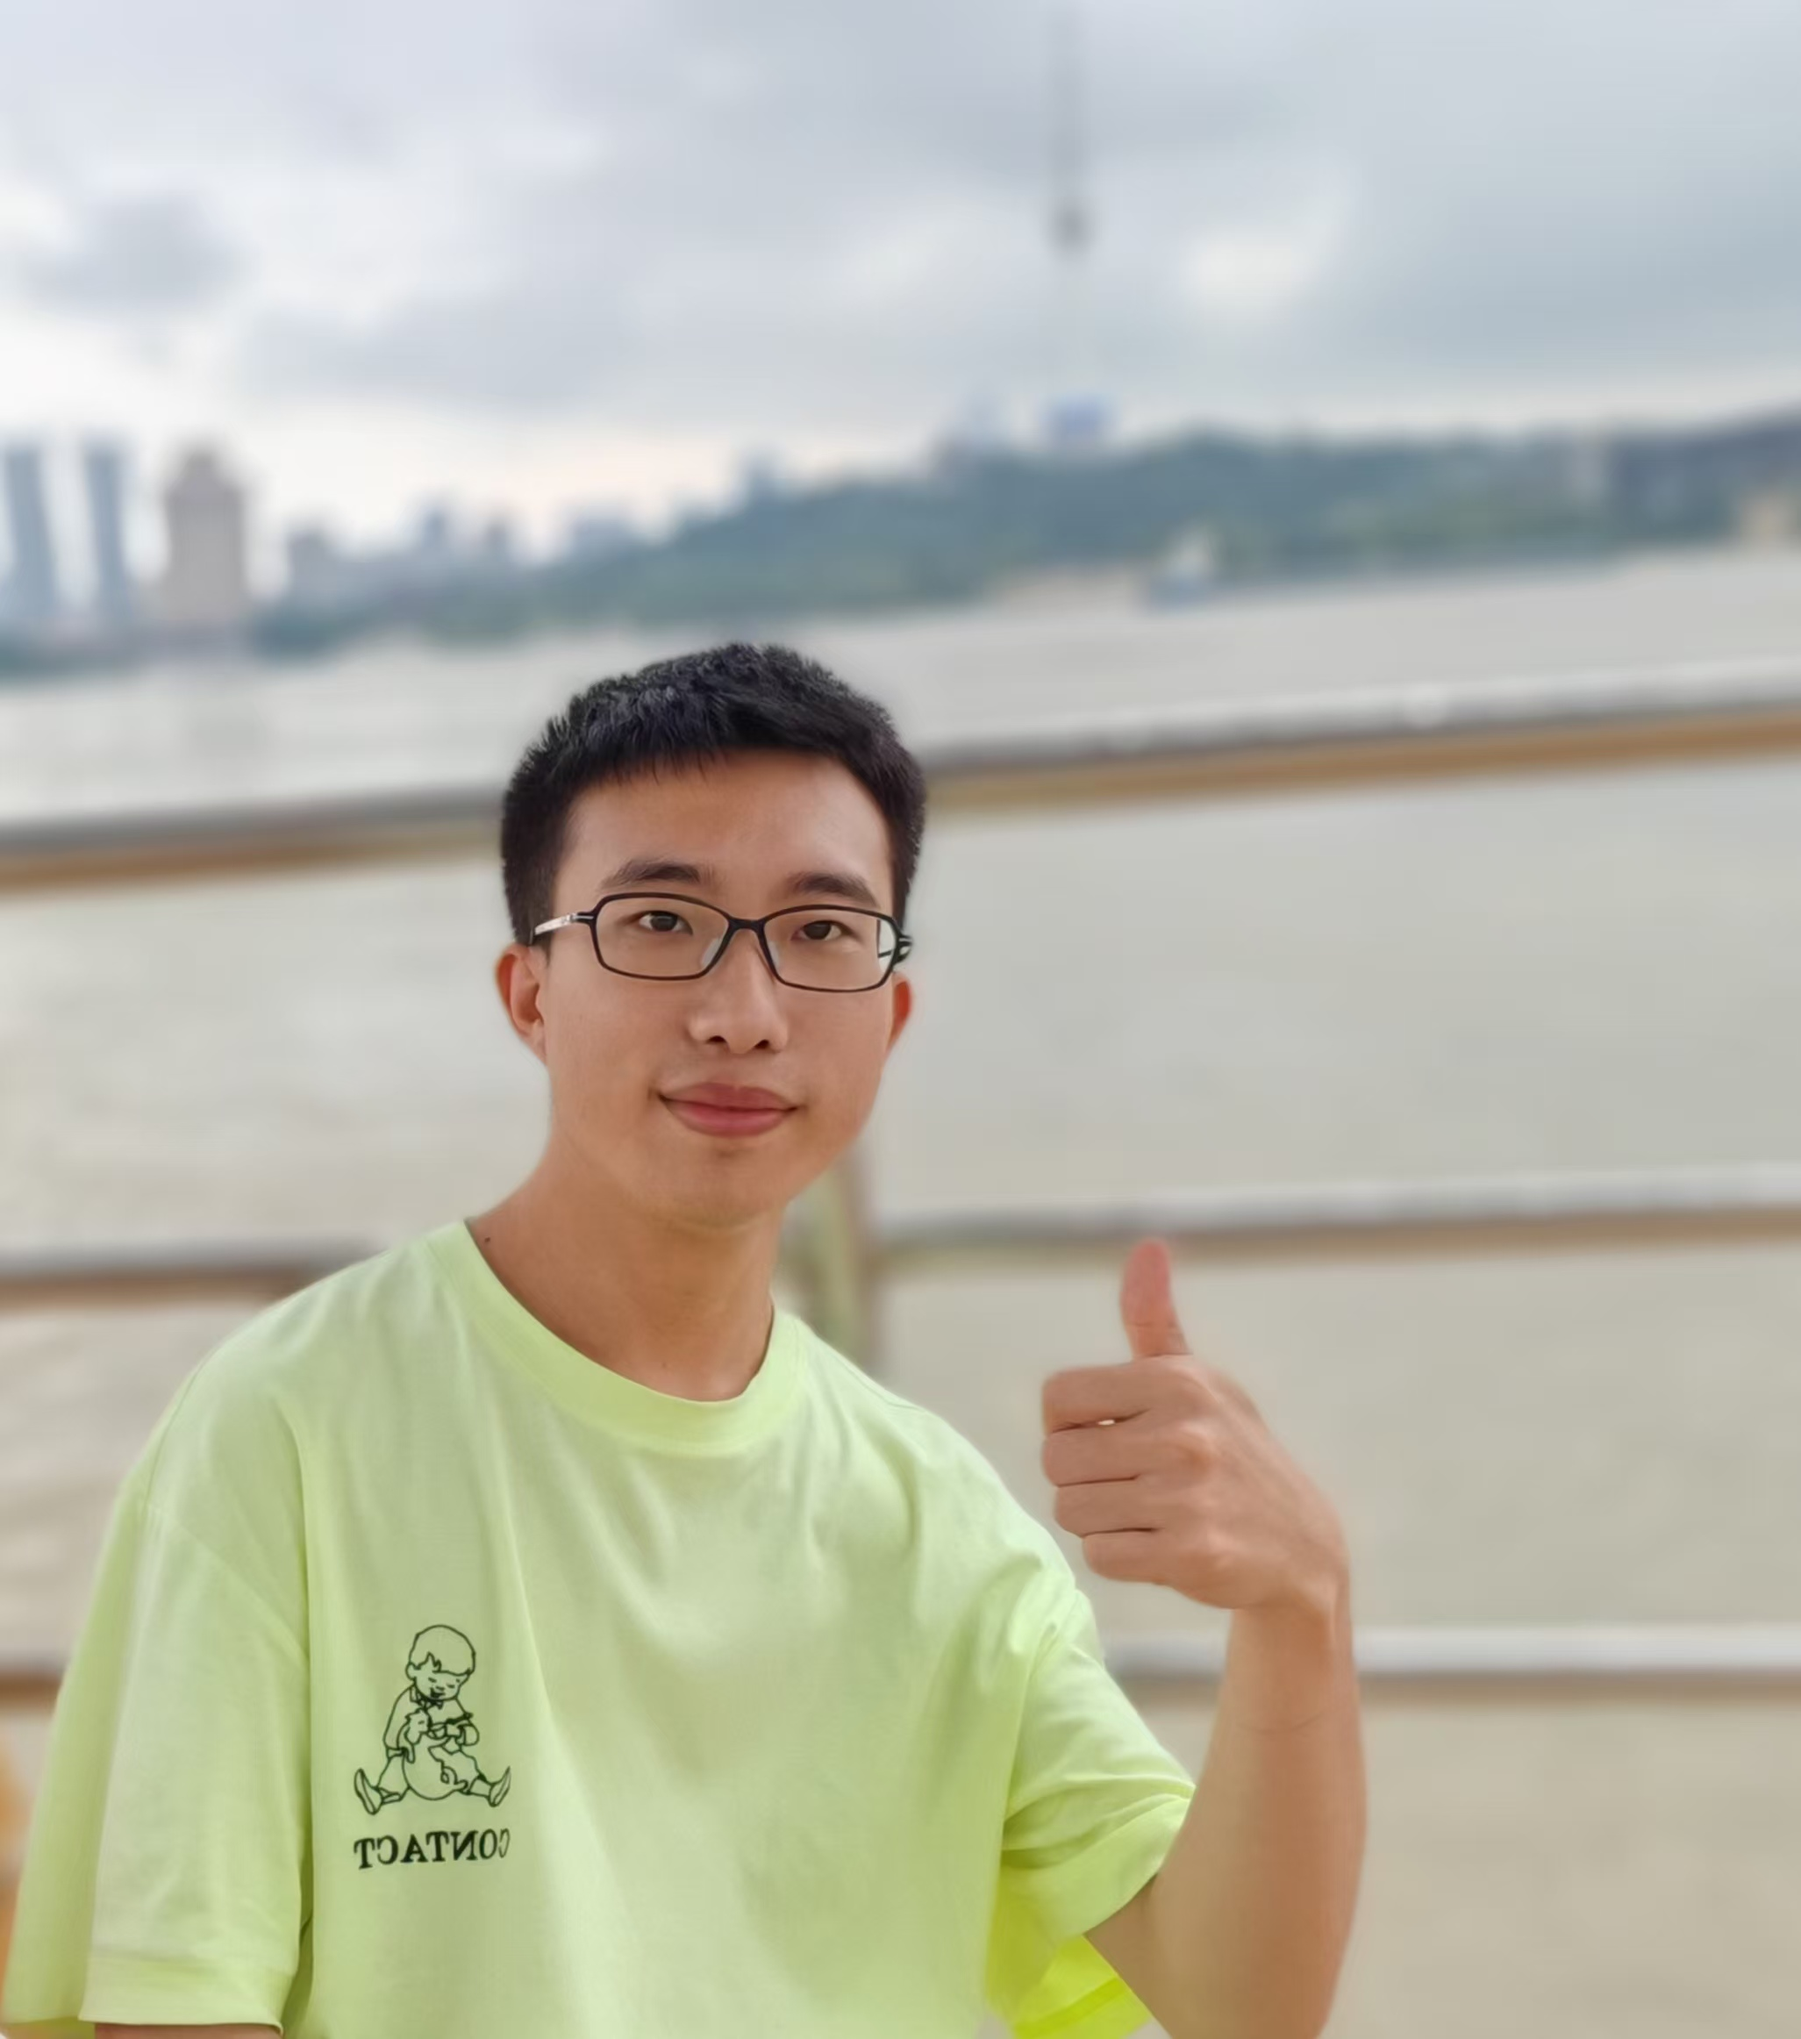
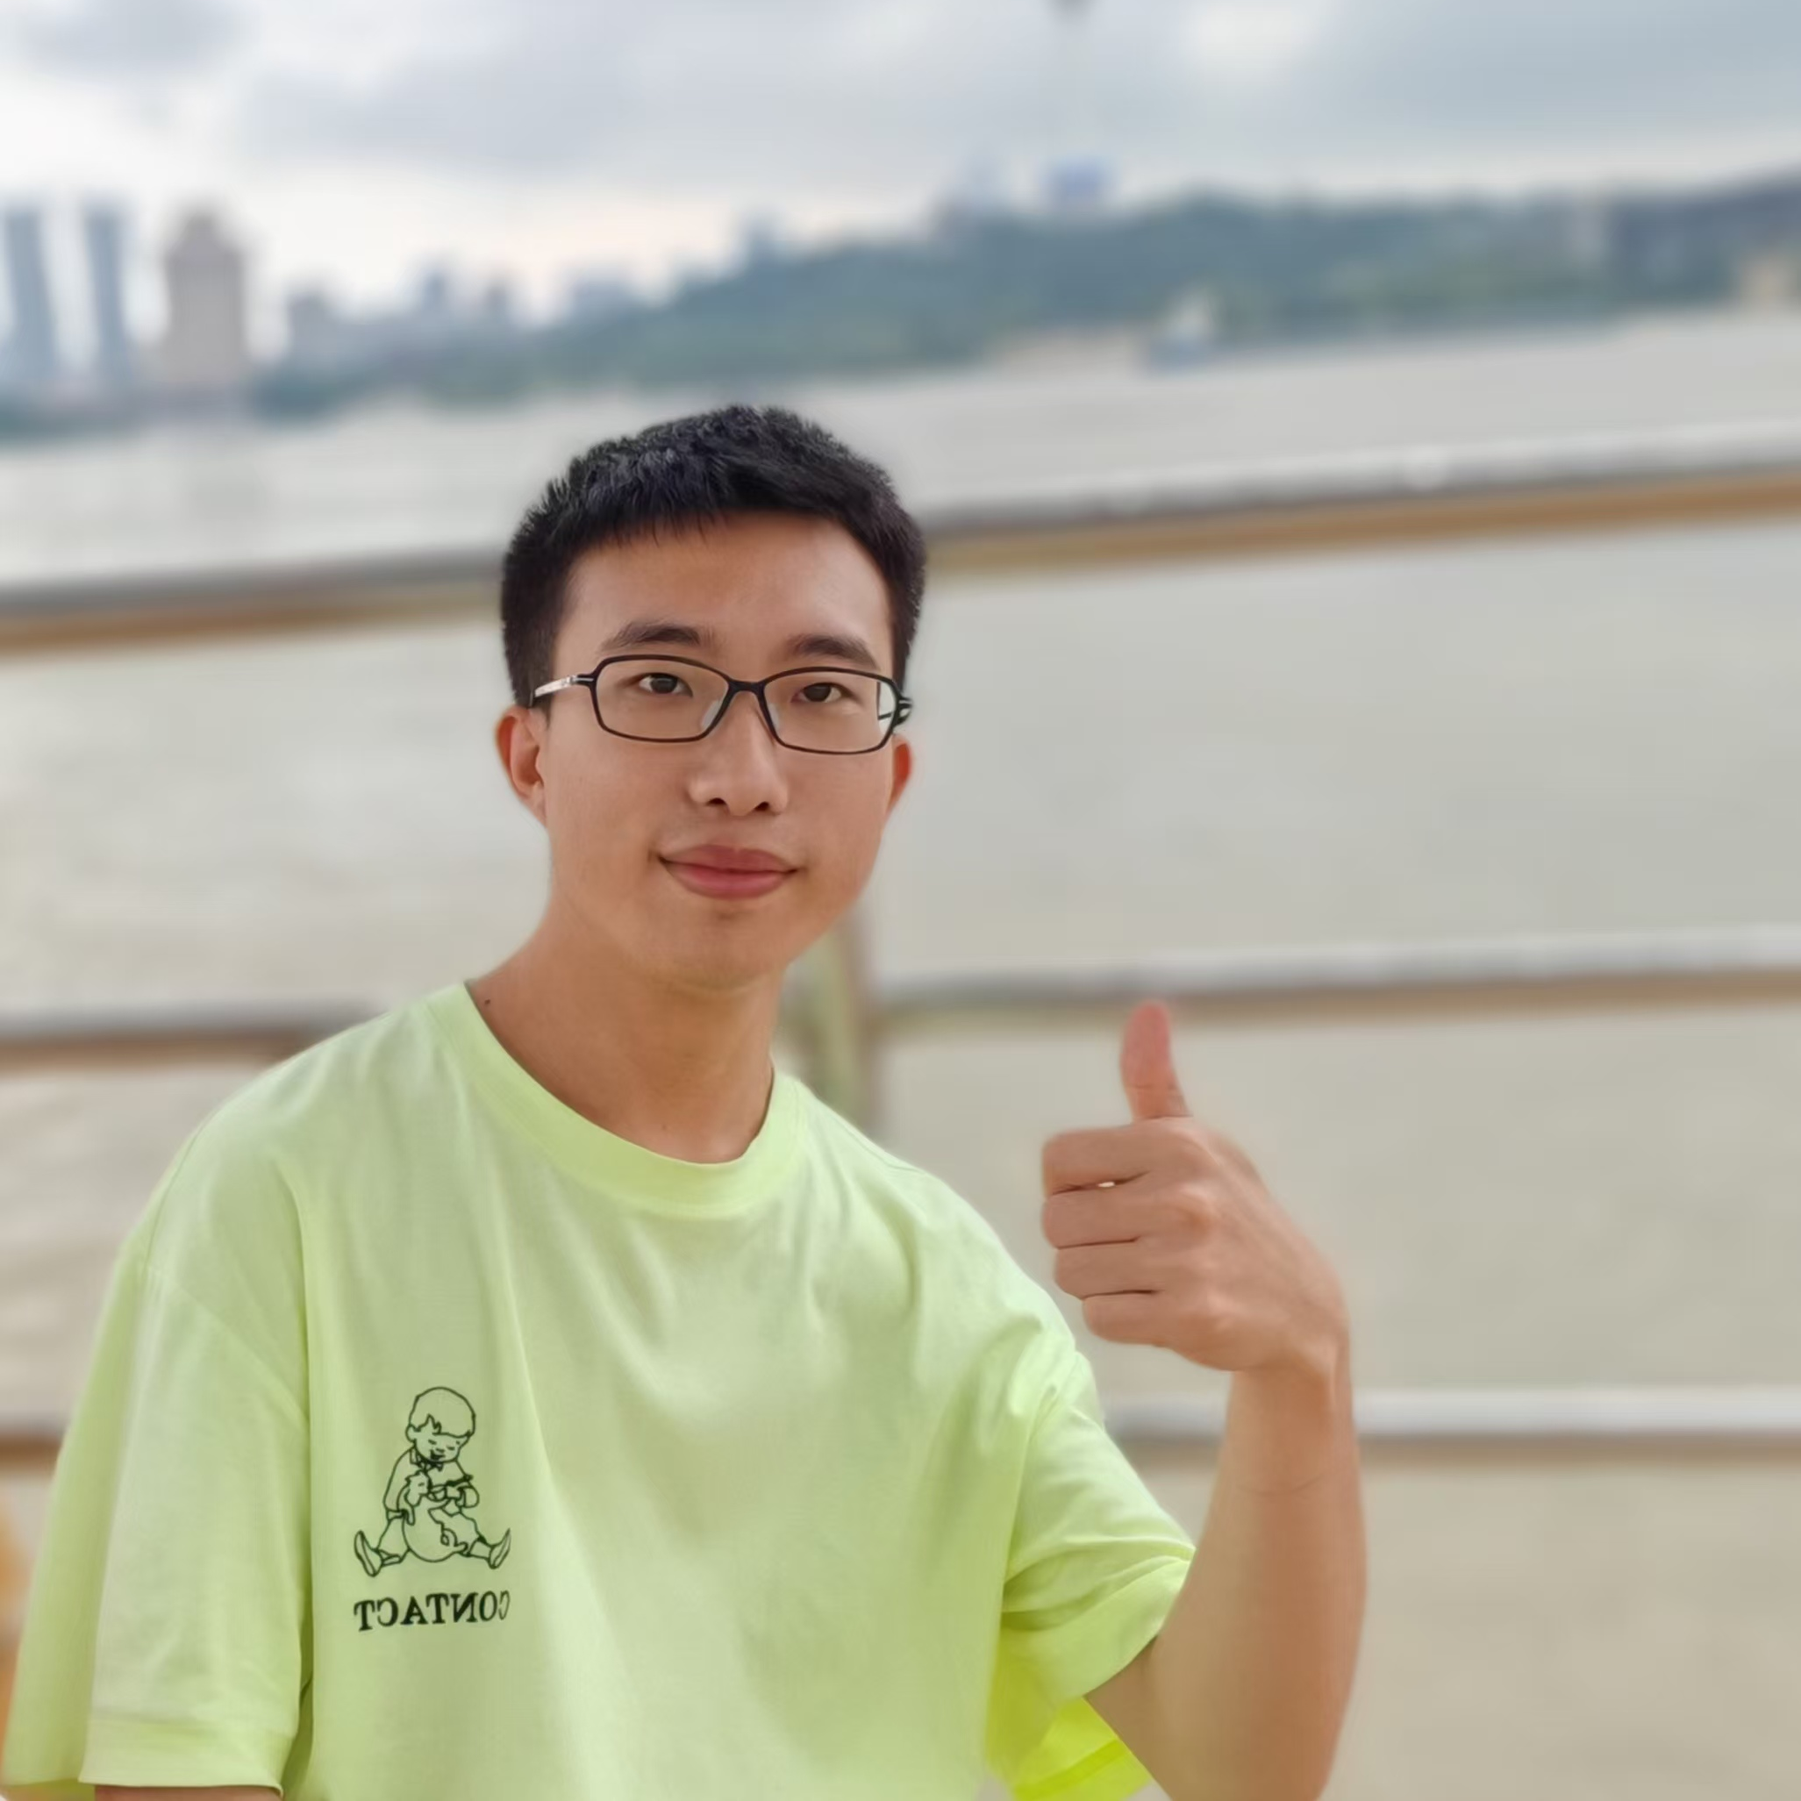
image update

diff --git a/_news/2024-5-31.md b/_news/2024-5-31.md
@@ -5,4 +5,4 @@ inline: true
 related_posts: false
 ---
 
-Our paper [<span style="color: #2E86C1;">"BackdoorIndicator: Leveraging OOD Data for Proactive Backdoor Detection in Federated Learning"</span>](https://arxiv.org/abs/2405.20862) is accepted to [<span style="color: #2E86C1;">USENIX Security 2024</span>](https://www.usenix.org/conference/usenixsecurity24/presentation/li-songze). Congratulations to [<span style="color: #2E86C1;">Yanbo</span>](https://ybdai7.github.io/)! :rocket:
+Our paper [<span style="color: #2E86C1;">"BackdoorIndicator: Leveraging OOD Data for Proactive Backdoor Detection in Federated Learning"</span>](https://arxiv.org/abs/2405.20862) is accepted to [<span style="color: #2E86C1;">USENIX Security 2024</span>](https://www.usenix.org/conference/usenixsecurity24/presentation/li-songze). Congratulations to **Yanbo**! :rocket:

diff --git a/_news/2024-10-16.md b/_news/2024-10-16.md
@@ -5,4 +5,4 @@ inline: true
 related_posts: false
 ---
 
-Our paper [<span style="color: #2E86C1;">"URVFL: Undetectable Data Reconstruction Attack on Vertical Federated Learning"</span>](https://ndss25-fall.hotcrp.com/u/0/paper/46) is accepted to NDSS 2025. Congratulations to Duanyi! :rocket:
+Our paper [<span style="color: #2E86C1;">"URVFL: Undetectable Data Reconstruction Attack on Vertical Federated Learning"</span>](https://ndss25-fall.hotcrp.com/u/0/paper/46) is accepted to NDSS 2025. Congratulations to **Duanyi!** :rocket:

diff --git a/_projects/about_zcq.md b/_projects/about_zcq.md
@@ -2,7 +2,7 @@
 layout: page
 title: Chenqing Zhu
 description: Since 2024 fall
-img: assets/img/seu.png
+img: assets/img/zcq.jpg
 importance: 1
 category: 'PhD at SEU'
 ---

diff --git a/_projects/about_xj.md b/_projects/about_xj.md
@@ -2,7 +2,7 @@
 layout: page
 title: Jin Xie
 description: Since 2022 fall
-img: assets/img/xj.png
+img: assets/img/xj.jpg
 importance: 1
 category: 'PhD at HKUST'
 ---

diff --git a/_projects/about_hrs.md b/_projects/about_hrs.md
@@ -2,7 +2,7 @@
 layout: page
 title: Ruishi He
 description: Since 2024 fall
-img: assets/img/seu.png
+img: assets/img/hrs.jpg
 importance: 1
 category: Master
 ---

diff --git a/_projects/about_dyb.md b/_projects/about_dyb.md
@@ -2,7 +2,7 @@
 layout: page
 title: Yanbo Dai 
 description: Since 2024.06
-img: assets/img/dyb.png
+img: assets/img/dyb.jpg
 importance: 1
 category: Intern
 ---
